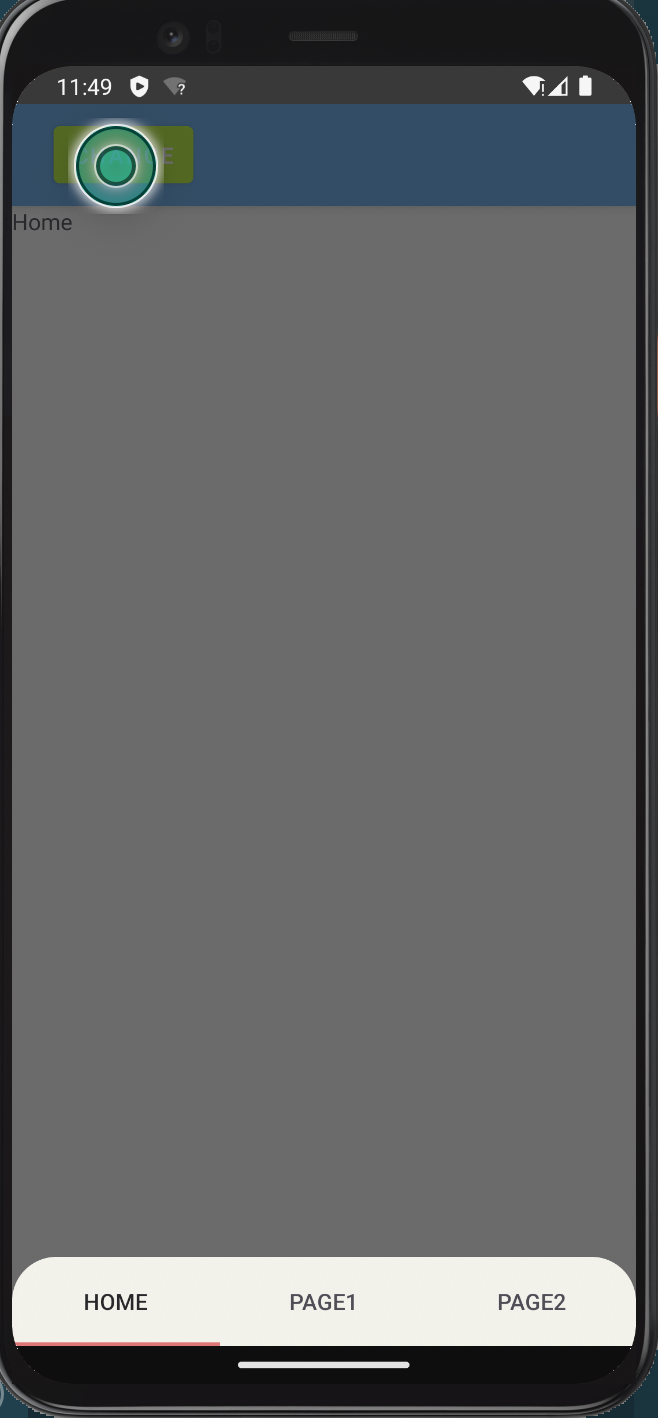
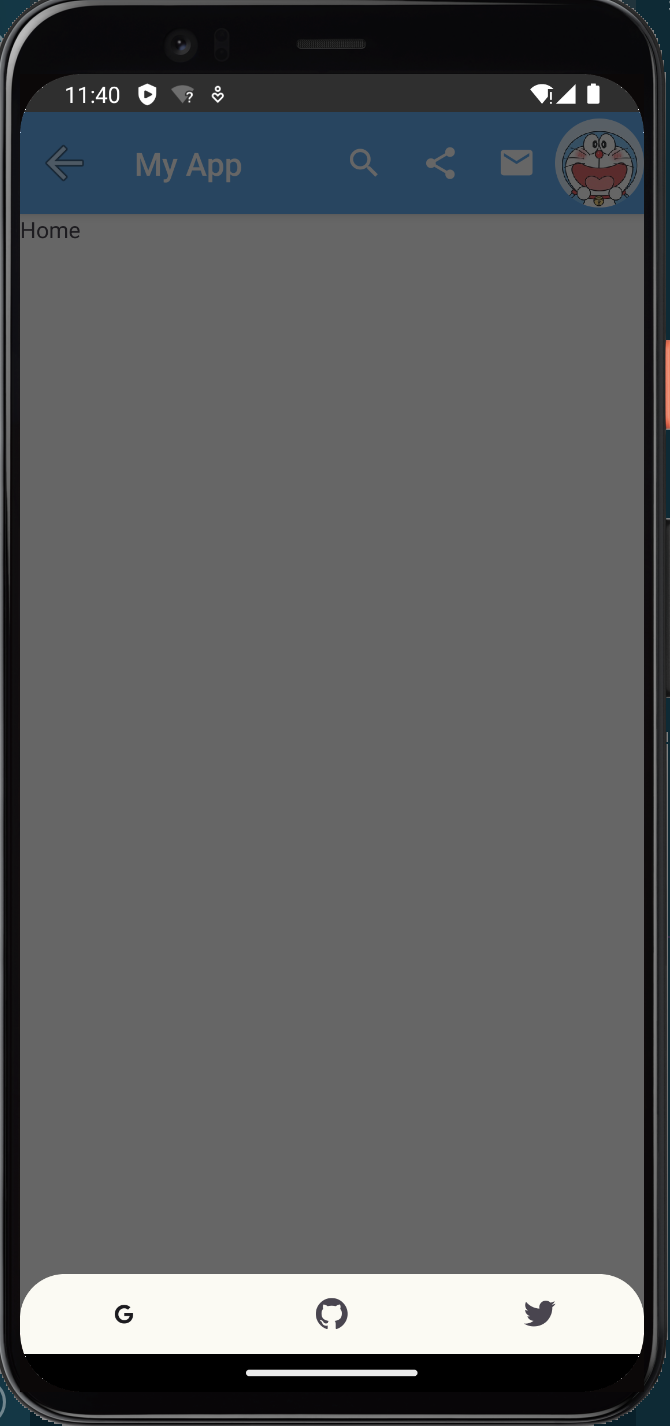
update

Changed region(s): [[0.0, 0.0, 1.0, 1.0]]

diff --git a/docs/移动端原生应用/UI组件/组合组件/导航.md b/docs/移动端原生应用/UI组件/组合组件/导航.md
@@ -731,8 +731,34 @@ createApp(Home).use(BottomSheetPlugin);
     <template>
         <Frame>
             <Page>
+                <ActionBar title="My App">
+                    <template v-if="isIOS">
+                        <!-- <NavigationButton :text="iconback" /> -->
+                        <ActionItem :icon="fontback" ios.position="left" class="mdi-ab" />
+                        <!-- <SearchBar hint="Search..." /> -->
+                        <ActionItem :icon="fontsearch" ios.position="left" class="mdi-ab" />
+                        <ActionItem :icon="fontshare" ios.position="right" class="mdi-ab" @Tap="onButtonTap"/>
+                        <ActionItem :icon="fontmessage" ios.position="right" class="mdi-ab" />
+                        <ActionItem ios.position="right" >
+                            <NSImg :src="src_account_login" roundAsCircle="true" stretch=fitCenter class="avatar" ></NSImg>
+                        </ActionItem>
+                        <!-- <ActionItem :icon="fontaccount" ios.position="right" class="mdi" /> -->
+                    </template>
+                    <template v-else>
+                        <NavigationButton android.systemIcon="ic_menu_back" />
+                        <!-- <ActionItem :icon="fontback" android.position="actionBar" class="mdi" /> -->
+                        <!-- <SearchBar hint="Search..." /> -->
+
+                        <ActionItem :icon="fontsearch" android.position="actionBar" class="mdi-ab" />
+                        <ActionItem :icon="fontshare" android.position="actionBar" class="mdi-ab" @Tap="onButtonTap"/>
+                        <ActionItem :icon="fontmessage" android.position="actionBar" class="mdi-ab" />
+                        <ActionItem android.position="actionBar">
+                            <NSImg :src="src_account_login" roundAsCircle="true" stretch=fitCenter></NSImg>
+                        </ActionItem>
+                        <!-- <ActionItem :icon="fontaccount" android.position="actionBar" class="mdi" /> -->
+                    </template>
+                </ActionBar>
                 <GridLayout rows="auto,*">
-                    <Button text="change" @tap="onButtonTap" row="0" id="change-btn" />
                     <Frame id="main-frame" row="1">
                         <HomePage />
                     </Frame>
@@ -740,19 +766,26 @@ createApp(Home).use(BottomSheetPlugin);
             </Page>
         </Frame>
     </template>
-      
+    
     <script lang="ts" setup>
     import { ref } from "nativescript-vue";
     import { TapGestureEventData } from "@nativescript/core/ui/gestures";
     import HomePage from "./HomePage.vue";
-    import NavSegmentedBar from "../components/NavSegmentedBar.vue";
+    import ShareBottomBar from "../components/ShareBottomBar.vue";
     import { useBottomSheet } from "@nativescript-community/ui-material-bottomsheet/vue3";
 
+    const isIOS = ref(global.isIOS)
     const { showBottomSheet } = useBottomSheet()
+    const fontback = "font://\uf2fa"
+    const fontsearch = "font://\uf1c3"
+    const fontshare = "font://\uf35b"
+    const fontmessage = "font://\uf15a"
+    const fontaccount = "font://\uf207"
+    const src_account_login = "https://img.duoziwang.com/2021/04/08101559830055.jpg"
 
     const defaultIndex = ref(0)
     function onButtonTap(evt: TapGestureEventData) {
-        showBottomSheet(NavSegmentedBar, {
+        showBottomSheet(ShareBottomBar, {
             dismissOnBackgroundTap: true,
             props: {
                 canCloseBottomSheet: true,
@@ -760,37 +793,39 @@ createApp(Home).use(BottomSheetPlugin);
             },
             closeCallback: (...args: any[]) => {
                 console.log("bottom sheet closed", args);
-                defaultIndex.value = args[0][0][1];
+                try {
+                    defaultIndex.value = args[0][0][1];
+                } catch (e) {
+                    defaultIndex.value = 0
+                }
             },
         });
     }
     </script>
-
     ```
 
-+ `components/NavSegmentedBar.vue`,导航组件很遗憾我们无法使用上面的`NavMDBottom.vue`,这里使用`NavSegmentedBar`来实现,
++ `components/ShareBottomBar.vue`,这里使用`NavSegmentedBar`来实现
 
     ```Vue
     <template>
         <SegmentedBar selectedBackgroundColor="#e57373" :selectedIndex="defaultIndex" @selectedIndexChanged="onIndexSelected"
-            id="nav-segbar">
-            <SegmentedBarItem title="Home" />
-            <SegmentedBarItem title="Page1" />
-            <SegmentedBarItem title="Page2" />
+            id="share-segbar" height="50" class="mdi">
+            <SegmentedBarItem :title="icon_google" class="mdi" height="50"/>
+            <SegmentedBarItem :title="icon_github" class="mdi-ab" height="50" />
+            <SegmentedBarItem :title="icon_twitter" class="mdi-ab" height="50"/>
         </SegmentedBar>
     </template>
         
     <script lang="ts" setup>
-    import { defineProps, $navigateTo } from "nativescript-vue";
+    import { defineProps, $navigateTo, ref } from "nativescript-vue";
     import { View } from "@nativescript/core";
     import { SelectedIndexChangedEventData } from "@nativescript/core/ui/segmented-bar";
     import { useBottomSheet } from "@nativescript-community/ui-material-bottomsheet/vue3";
 
-    const {  closeBottomSheet } = useBottomSheet()
-    import HomePage from "../views/HomePage.vue";
-    import Page1 from "../views/Page1.vue";
-    import Page2 from "../views/Page2.vue";
-
+    const { closeBottomSheet } = useBottomSheet()
+    const icon_google = ref("\uf34e")
+    const icon_github = ref("\uf345")
+    const icon_twitter = ref("\uf360")
     const props = defineProps({
         canCloseBottomSheet: {
             type: Boolean,
@@ -807,26 +842,17 @@ createApp(Home).use(BottomSheetPlugin);
         switch (evt.newIndex) {
             case 0:
                 {
-                    $navigateTo(HomePage, {
-                        transition: { name: "fade" },
-                        frame: "main-frame",
-                    });
+                    console.log("google")
                 }
                 break;
             case 1:
                 {
-                    $navigateTo(Page1, {
-                        transition: { name: "fade" },
-                        frame: "main-frame",
-                    });
+                    console.log("twitter")
                 }
                 break;
             case 2:
                 {
-                    $navigateTo(Page2, {
-                        transition: { name: "fade" },
-                        frame: "main-frame",
-                    });
+                    console.log("github")
                 }
                 break;
             default:
